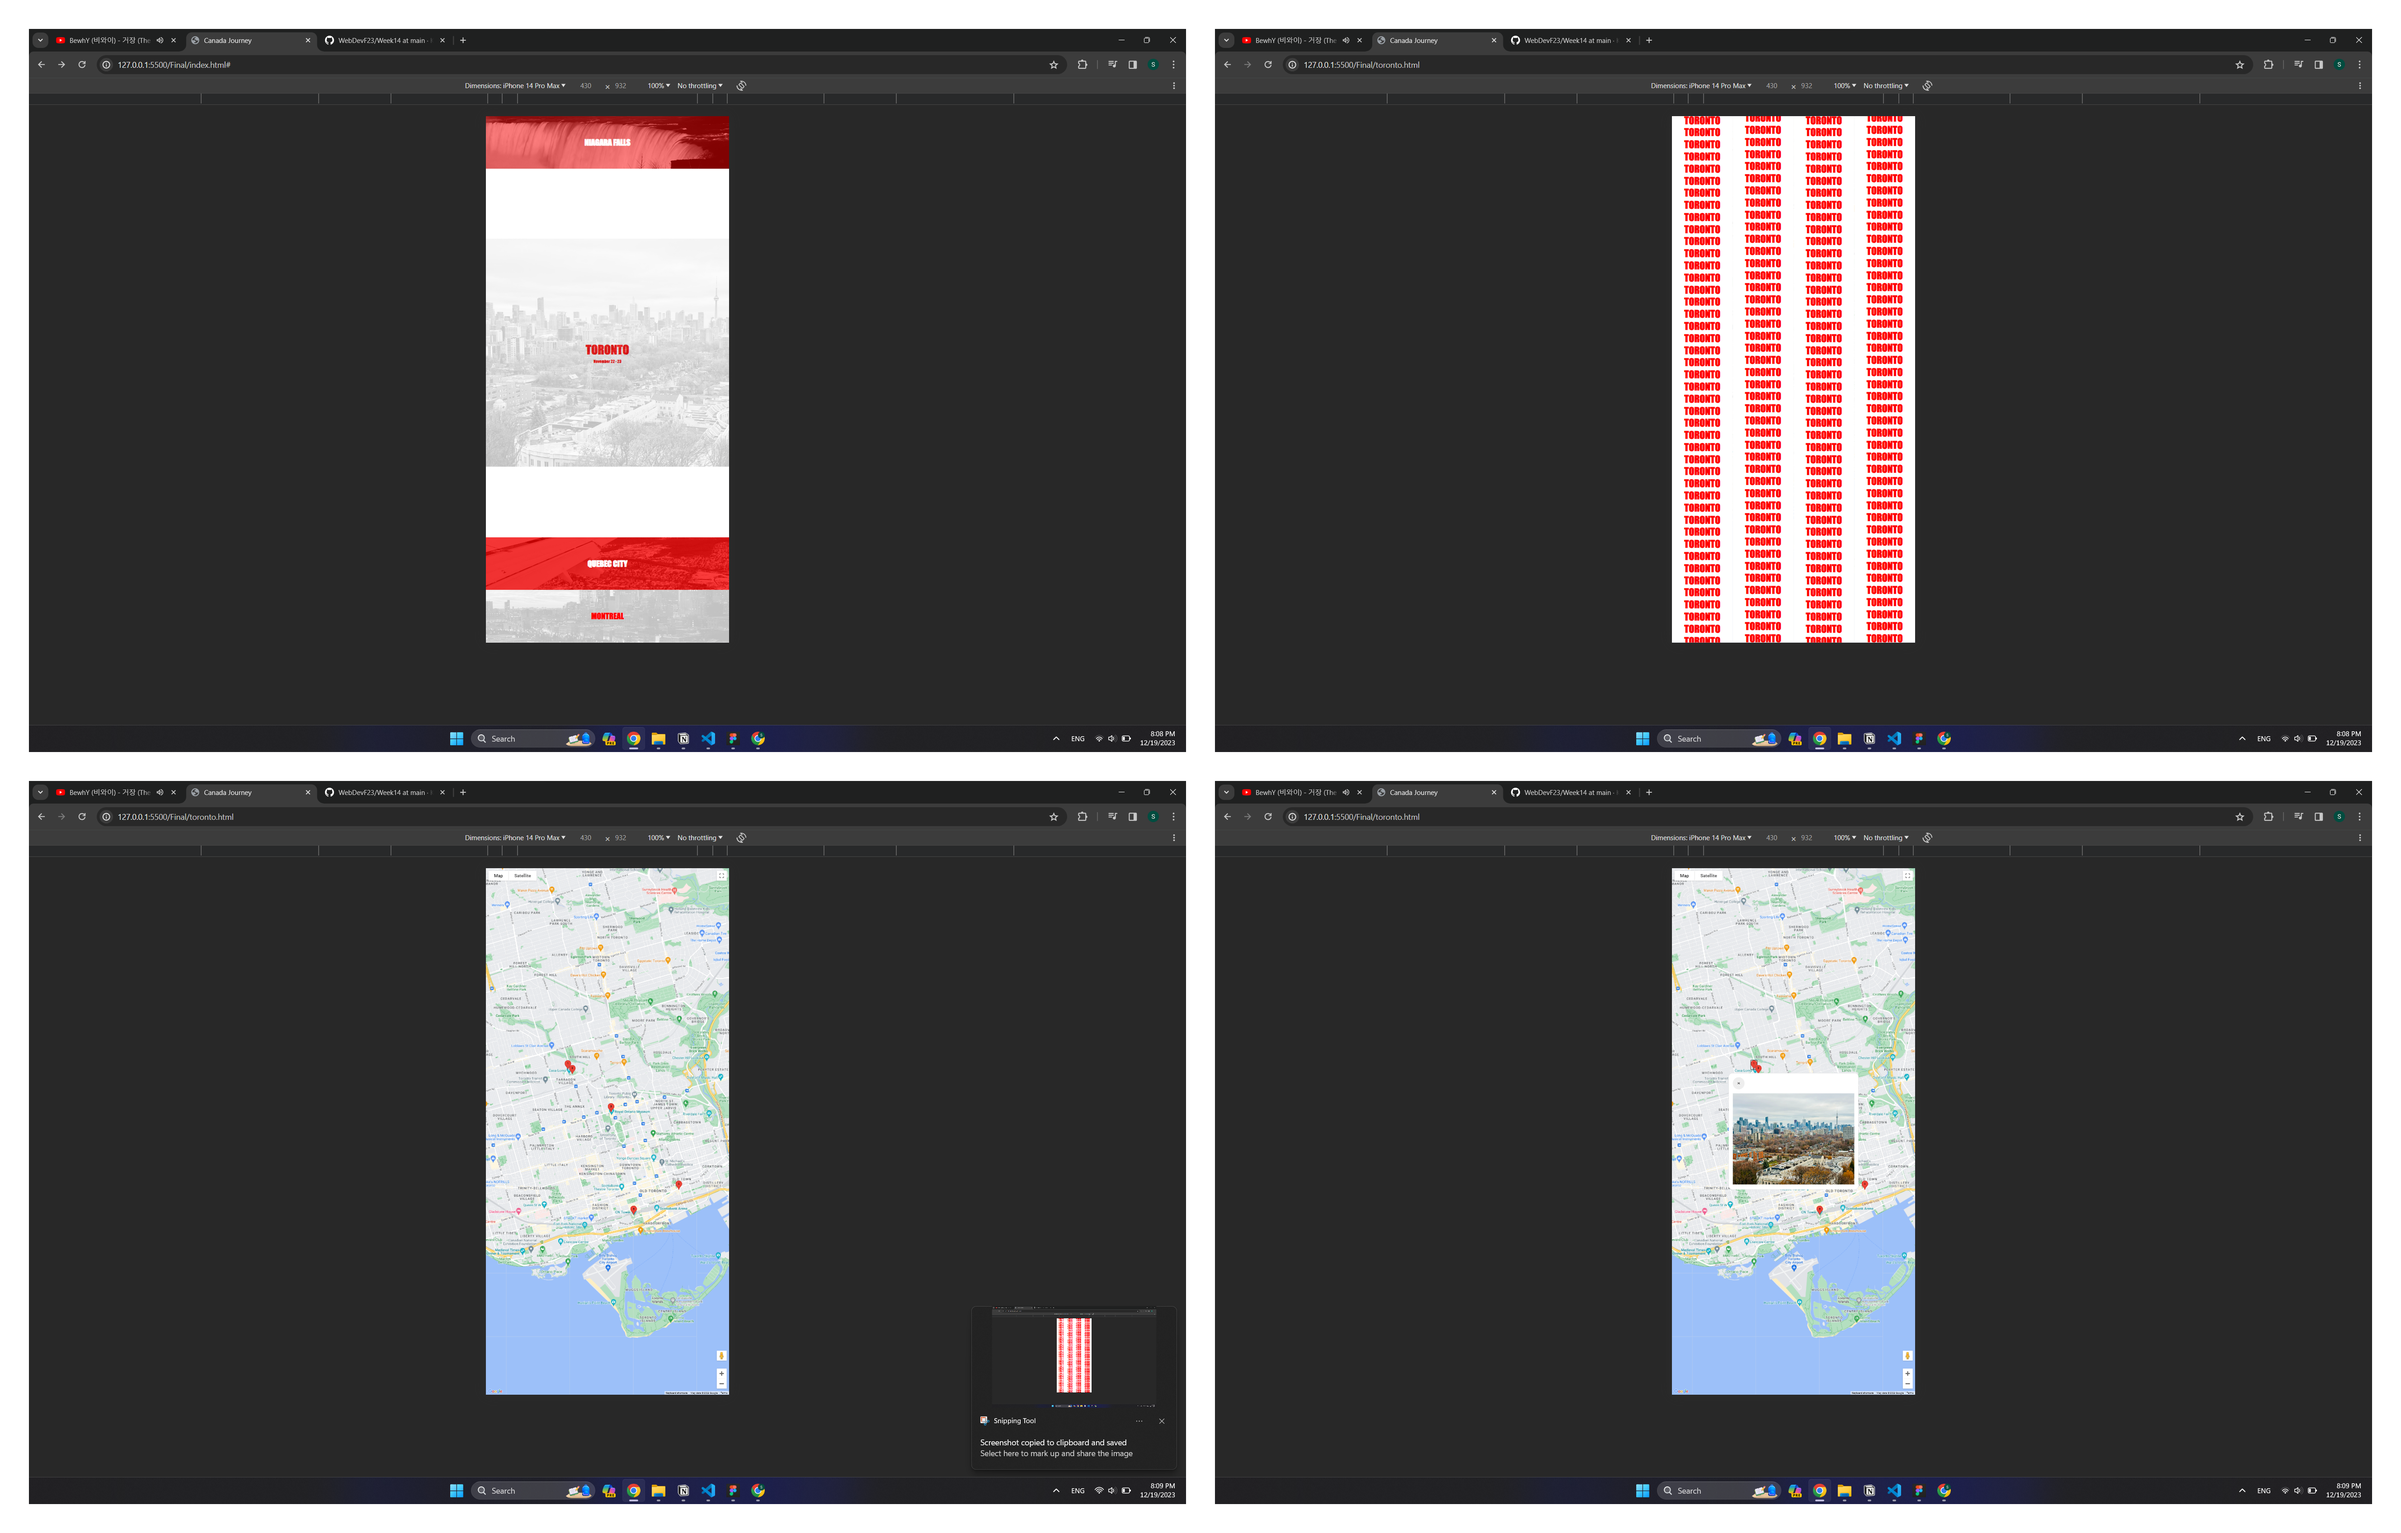
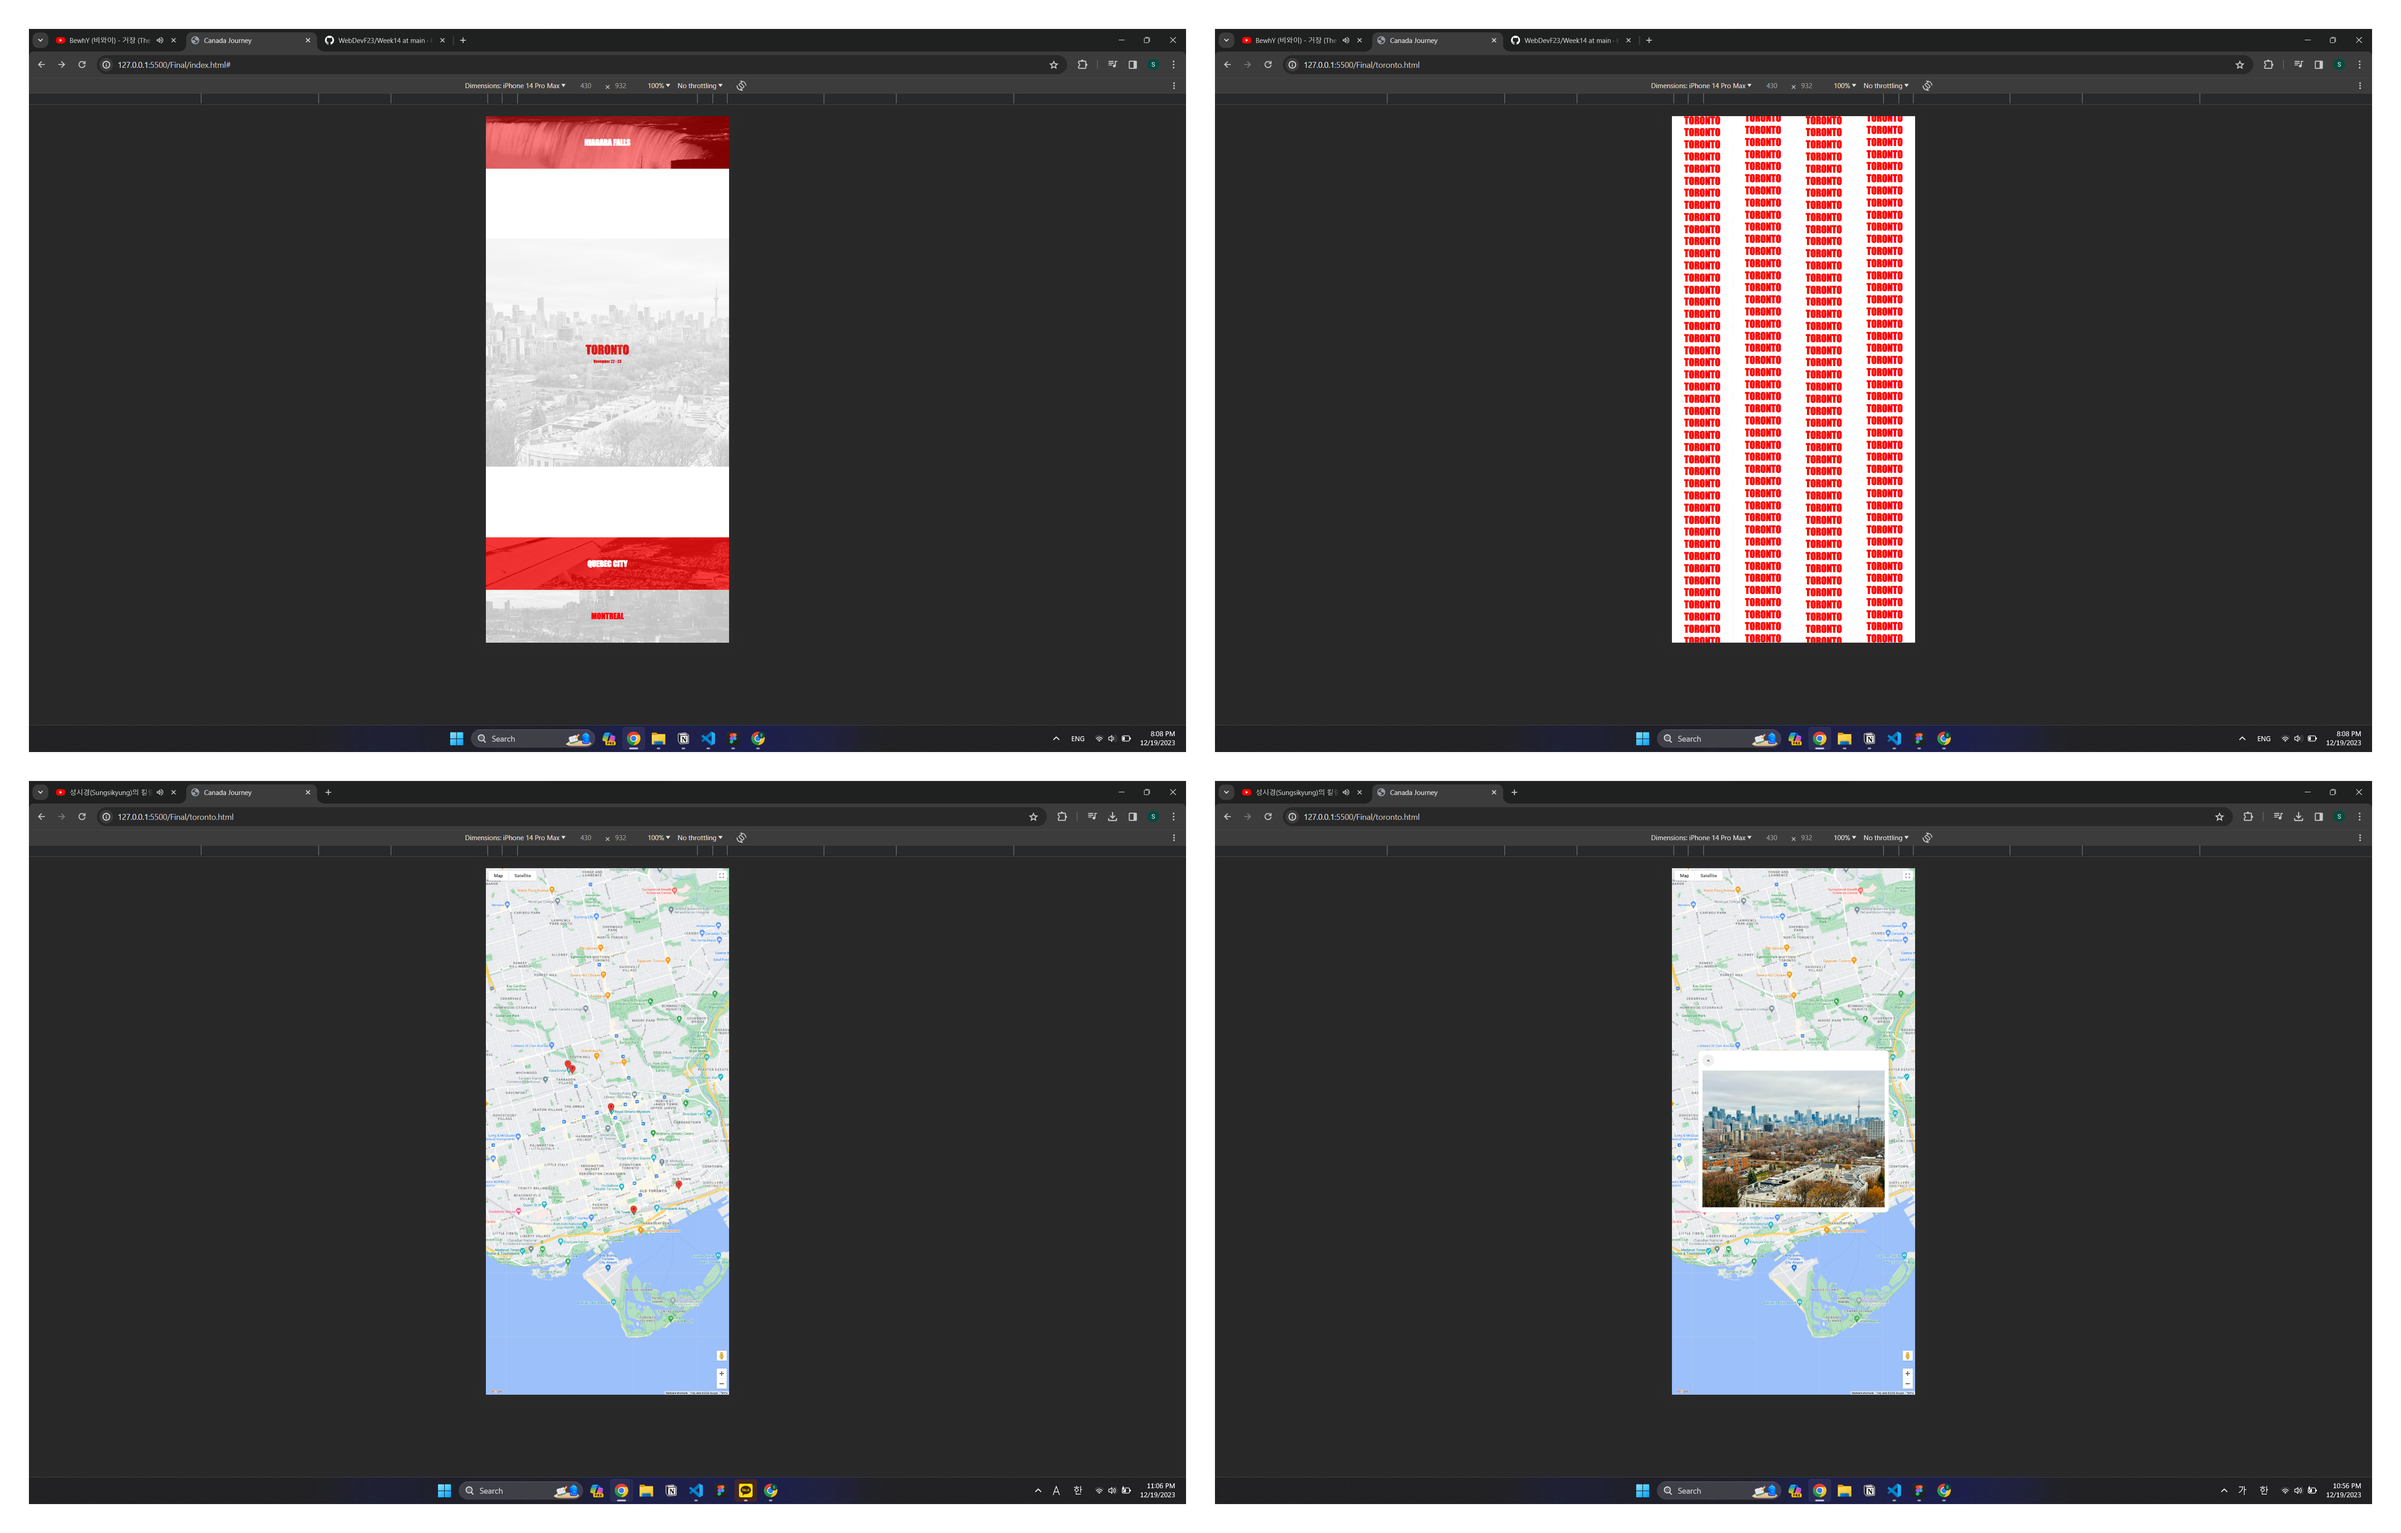
Media Query, Readme.md

Changed region(s): [[0.6875, 0.6875, 0.8125, 0.8125], [0.1875, 0.9688, 0.3125, 1.0], [0.4375, 0.8438, 0.4688, 0.9062]]

diff --git a/Final/index.html b/Final/index.html
@@ -17,9 +17,9 @@
         <div class="column" style="height: 100vh; overflow: hidden; position: absolute;">
             <div class="thumbnail canadaRedBackground canadaWhite">
                 <div class="column" style="position: absolute; left: 50%; transform: translateX(-50%);">                    
-                    <div class="one">NIAGARA FALLS</div>
-                    <div class="two"></div>
-                    <div class="three">November 21 - 22</div>
+                    <div class="indexLargeText">NIAGARA FALLS</div>
+                    <div class="indexSizedBox"></div>
+                    <div class="indexSmallText">November 21 - 22</div>
                 </div>
                 <a href="#" onclick="niagaraFallsAnimateIn()">
                     <img src="Assets\Image\index\NiagaraFalls.png">
@@ -27,9 +27,9 @@
             </div>
             <div class="thumbnail canadaWhiteBackground canadaRed">
                 <div class="column" style="position: absolute; left: 50%; transform: translateX(-50%);">                    
-                    <div class="one">TORONTO</div>
-                    <div class="two"></div>
-                    <div class="three">November 22 - 23</div>
+                    <div class="indexLargeText">TORONTO</div>
+                    <div class="indexSizedBox"></div>
+                    <div class="indexSmallText">November 22 - 23</div>
                 </div>
                 <a href="#" onclick="torontoAnimateIn()">
                     <img src="Assets\Image\index\Toronto.png">
@@ -37,9 +37,9 @@
             </div>
             <div class="thumbnail canadaRedBackground canadaWhite">
                 <div class="column" style="position: absolute; left: 50%; transform: translateX(-50%);">                   
-                    <div class="one">QUEBEC CITY</div>
-                    <div class="two"></div>
-                    <div class="three">November 23 - 25</div>
+                    <div class="indexLargeText">QUEBEC CITY</div>
+                    <div class="indexSizedBox"></div>
+                    <div class="indexSmallText">November 23 - 25</div>
                 </div>
                 <a href="#" onclick="quebecCityAnimateIn()">
                     <img src="Assets\Image\index\QuebecCity.png">
@@ -47,9 +47,9 @@
             </div>
             <div class="thumbnail canadaWhiteBackground canadaRed">
                 <div class="column" style="position: absolute; left: 50%; transform: translateX(-50%);">                    
-                    <div class="one">MONTREAL</div>
-                    <div class="two"></div>
-                    <div class="three">November 25 - 27</div>
+                    <div class="indexLargeText">MONTREAL</div>
+                    <div class="indexSizedBox"></div>
+                    <div class="indexSmallText">November 25 - 27</div>
                 </div>
                 <a href="#" onclick="montrealAnimateIn()">
                     <img src="Assets\Image\index\Montreal.png" style="width: 100%;">

diff --git a/Final/style.css b/Final/style.css
@@ -139,36 +139,36 @@ align-self: stretch, flex-start, center, flex-end, baseline;
     transform: scale(1.25);
 }
 
-.thumbnail .one {
+.thumbnail .indexLargeText {
     font-family: Impact, Haettenschweiler, 'Arial Narrow Bold', sans-serif;
     font-weight: bold;
     font-size: 64px;
     transition: all 1s ease;
 }
 
-.thumbnail:hover .one {
+.thumbnail:hover .indexLargeText {
     font-size: 96px;
 }
 
-.thumbnail .two {
+.thumbnail .indexSizedBox {
     width: 0px;
     height: 0px;
     transition: all 0.33s ease;
 }
 
-.thumbnail:hover .two {
+.thumbnail:hover .indexSizedBox {
     width: 16px;
     height: 16px;
 }
 
-.thumbnail .three {
+.thumbnail .indexSmallText {
     font-family: Impact, Haettenschweiler, 'Arial Narrow Bold', sans-serif;
     font-weight: bold;
     font-size: 0px;
     transition: all 0.33s ease;
 }
 
-.thumbnail:hover .three {
+.thumbnail:hover .indexSmallText {
     font-size: 32px;
 }
 
@@ -217,34 +217,29 @@ align-self: stretch, flex-start, center, flex-end, baseline;
 /* Media Query */
 
 @media only screen and (max-width: 1633px) {
-    .thumbnail img {
-        height: 100%;
-        /* width: auto; */
-    }
-
-    .thumbnail .one {
+    .thumbnail .indexLargeText {
         font-size: 32px;
     }
     
-    .thumbnail:hover .one {
+    .thumbnail:hover .indexLargeText {
         font-size: 48px;
     }
     
-    .thumbnail .two {
+    .thumbnail .indexSizedBox {
         width: 0px;
         height: 0px;
     }
     
-    .thumbnail:hover .two {
+    .thumbnail:hover .indexSizedBox {
         width: 8px;
         height: 8px;
     }
     
-    .thumbnail .three {
+    .thumbnail .indexSmallText {
         font-size: 0px;
     }
     
-    .thumbnail:hover .three {
+    .thumbnail:hover .indexSmallText {
         font-size: 16px;
     }
 

diff --git a/Final/modalStyle.css b/Final/modalStyle.css
@@ -55,4 +55,16 @@ button {
 
 .hidden {
     display: none;
-  }
+}
+
+/* Media Query */
+
+@media only screen and (max-width: 1633px) {
+    .vertical {
+        width: 75%;
+    }
+
+    .horizontal {
+        width: 75%;
+    }
+}

diff --git a/Final/README.md b/Final/README.md
@@ -2,6 +2,10 @@
 
 ## Demo
 
+<a href="https://youtu.be/1Gdks29qcKk">
+    <img src="ReadmeAssets/Thumbnail.png">
+</a>
+
 ## Screenshots
 
 ### 1) Desktop
@@ -50,19 +54,41 @@ The website that includes photos that are taken in Canada this thanksgiving holi
 
 ### 1) Hover Effect
 
+<details>
+<summary>⌨ Code Snippet</summary>
+</details>
+
 ### 2) Animation
+
+<details>
+<summary>⌨ Code Snippet</summary>
+</details>
 
 ### 3) Google Map and Pin
 
+<details>
+<summary>⌨ Code Snippet</summary>
+</details>
+
 ### 4) Modal
+
+<details>
+<summary>⌨ Code Snippet</summary>
+</details>
+
+### 5) Media Query
+
+<details>
+<summary>⌨ Code Snippet</summary>
+</details>
 
 ## 6. Improvement
 
 ### 1) Auto Pin Generation
 
-    for file in folder:
-        add html element of file in document
-        add pin on map based on file.location and file.image
+for file in folder
+add html element of file in document
+add pin on map based on file.location and file.image
 
 ### 2) Cluster Image
 
